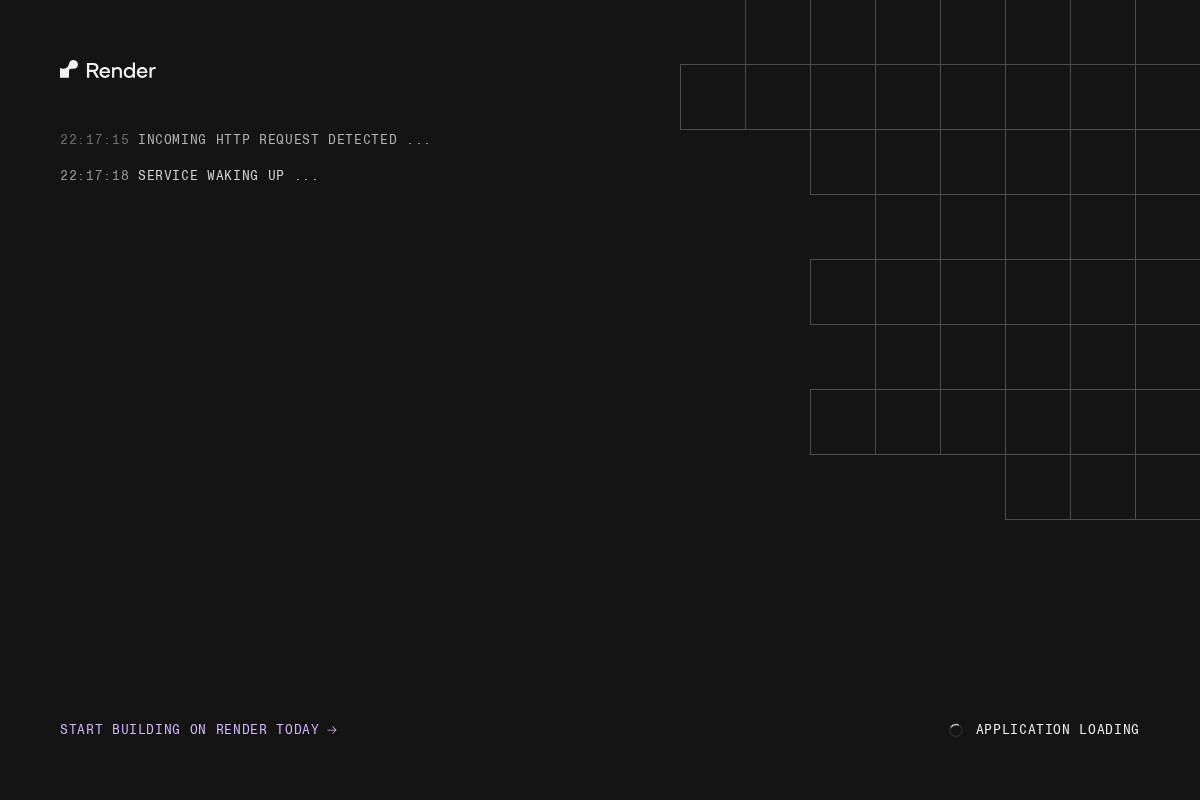
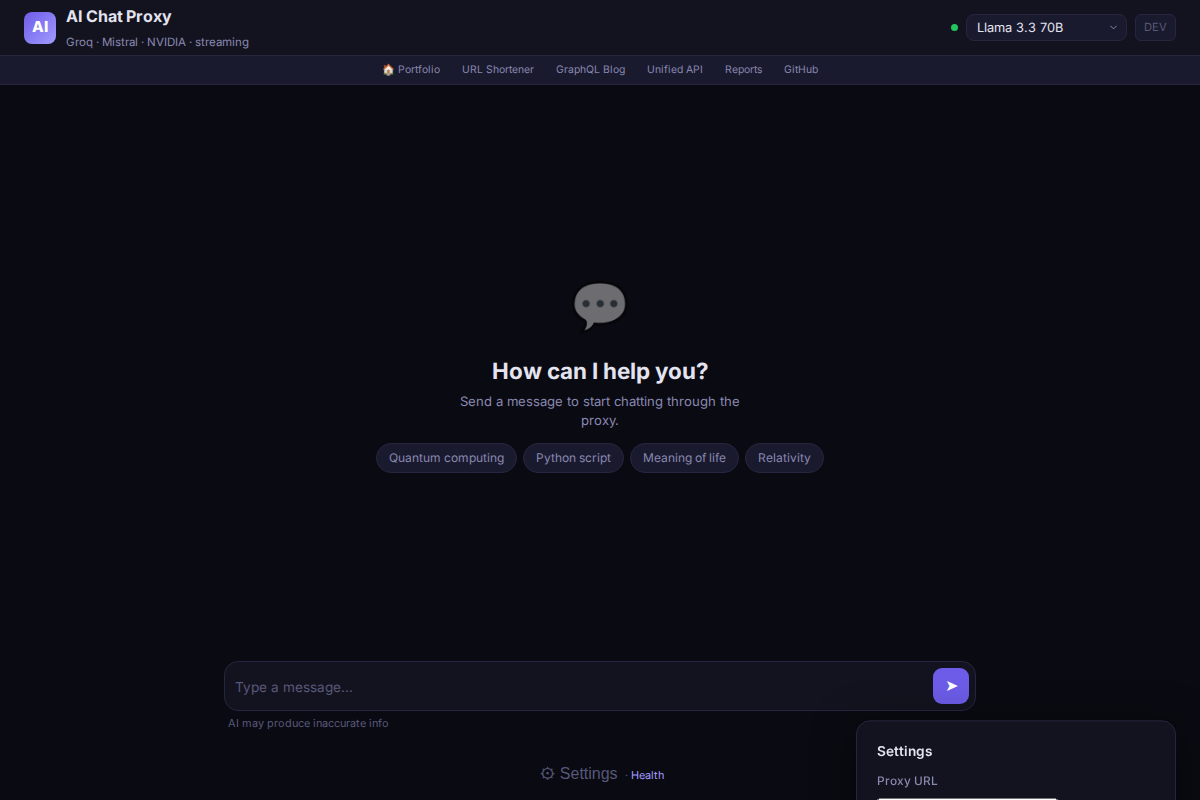
docs: retake screenshots for ai-chat-proxy, search-engine, link-shortener

diff --git a/retake.js b/retake.js
@@ -1,0 +1,26 @@
+const { chromium } = require('playwright');
+const sites = [
+  { name: "ai-chat-proxy", url: "https://ai-chat-proxy-twj4.onrender.com" },
+  { name: "search-engine", url: "https://search-engine-l2zt.onrender.com" },
+  { name: "link-shortener", url: "https://fastapiurl.onrender.com" }
+];
+
+(async () => {
+  const browser = await chromium.launch();
+  const context = await browser.newContext({ viewport: { width: 1200, height: 800 } });
+  
+  for (const site of sites) {
+    console.log(`Retaking: ${site.name}`);
+    const page = await context.newPage();
+    try {
+      await page.goto(site.url, { waitUntil: 'load', timeout: 60000 });
+      await page.waitForTimeout(4000);
+      await page.screenshot({ path: `screenshots/${site.name}.png` });
+      console.log('  DONE');
+    } catch(e) {
+      console.log('  Error:', e.message);
+    }
+    await page.close();
+  }
+  await browser.close();
+})();
